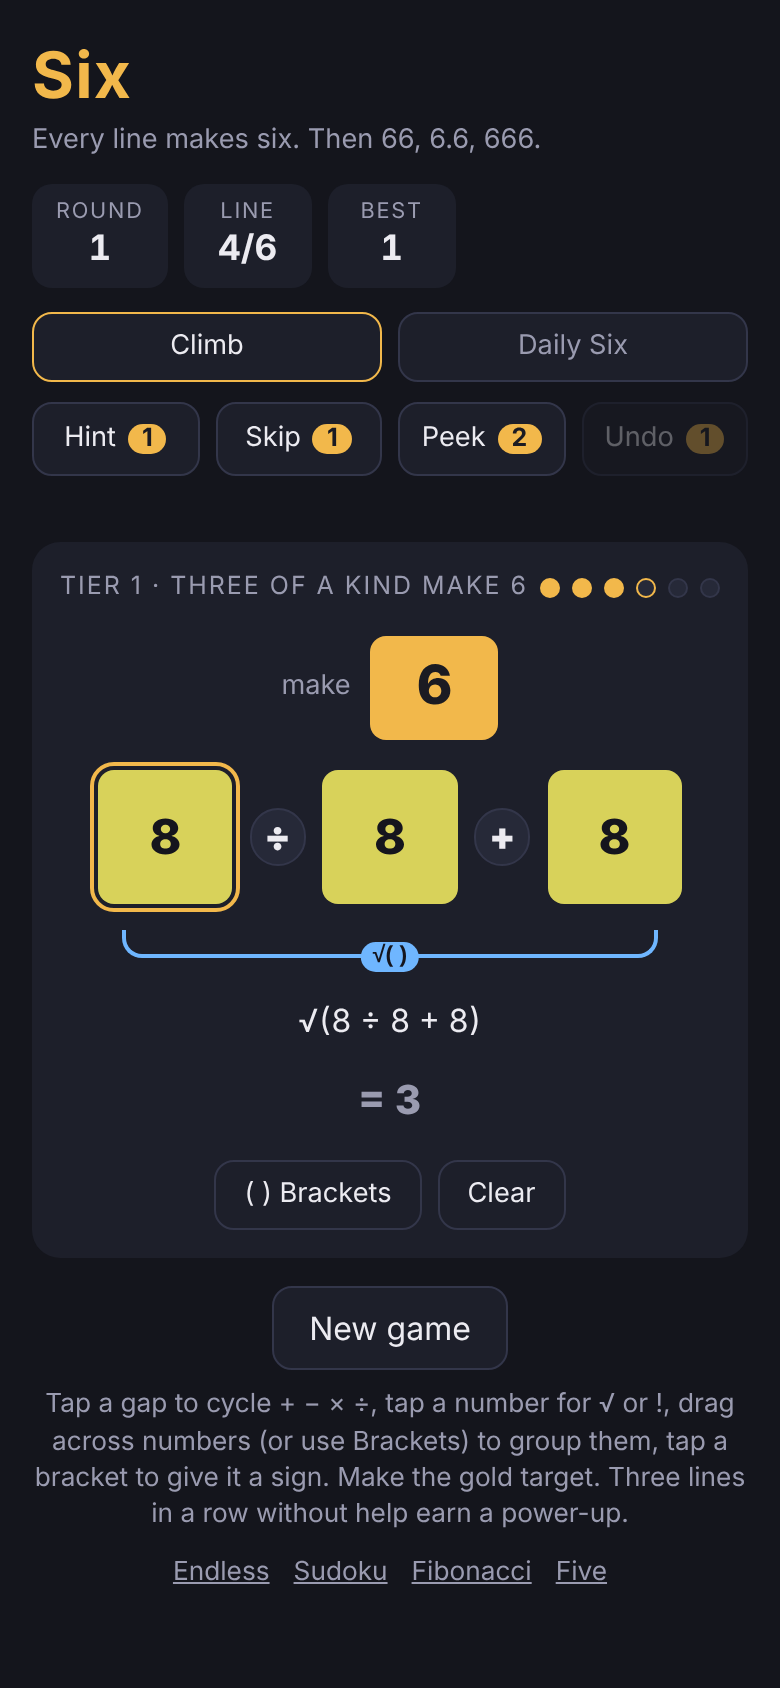
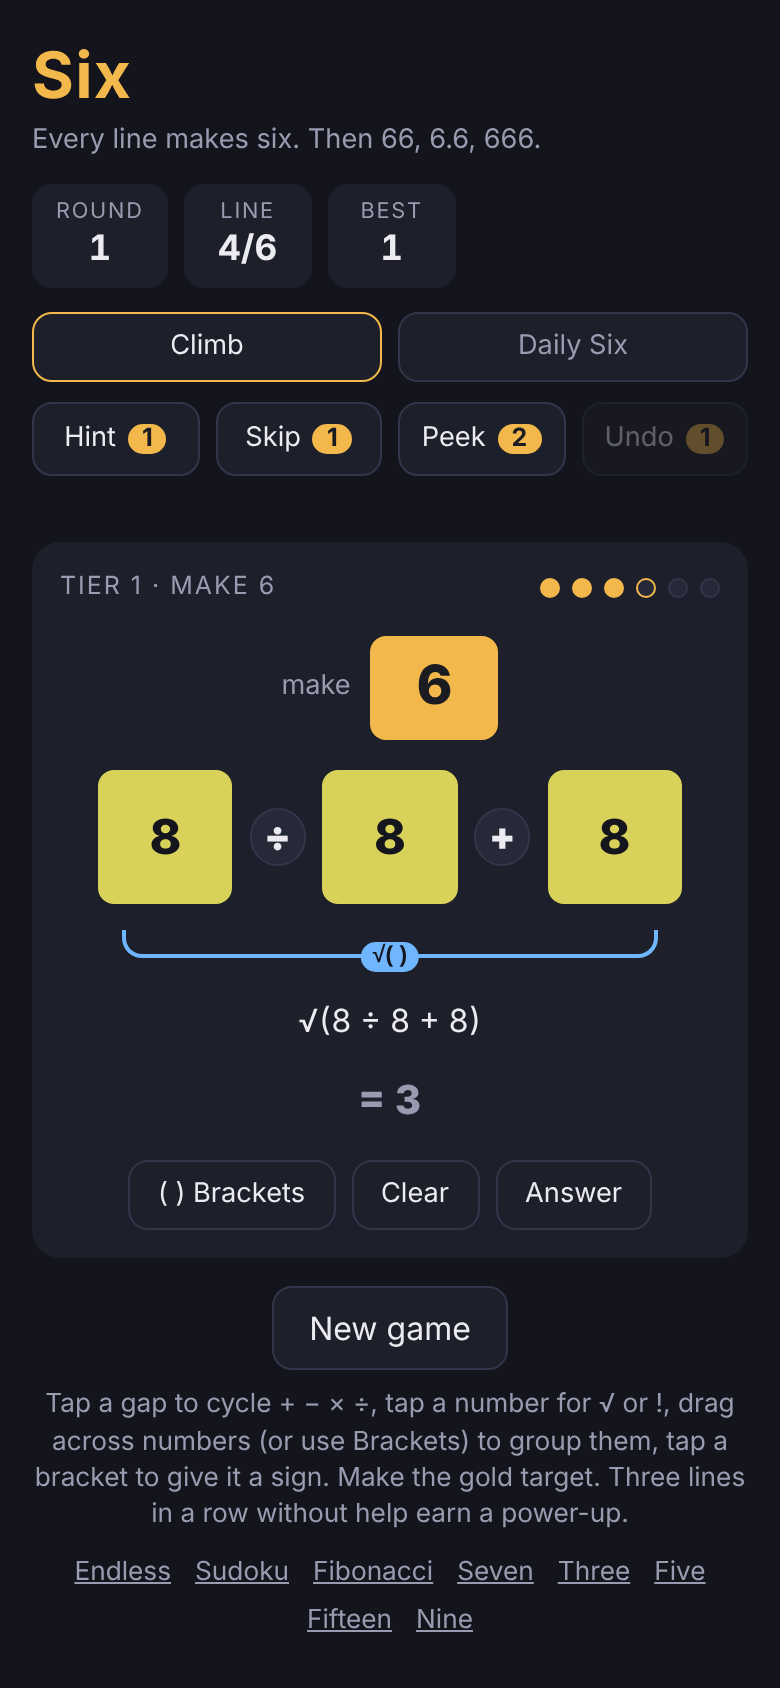
Six: make every line six, then 66, 6.6, 666, 66.6
Five tiers over a verified bank of 101 lines (exact fractions, every line
re-solved by the tests); tap gaps for signs, drag for brackets, never eval.
Climb and Daily Six; Hint, Skip, Peek, Undo; Answer for a stuck line.

diff --git a/six/style.css b/six/style.css
@@ -17,8 +17,8 @@
 .line.long .num{ font-size:1rem; }
 .num .sg{ position:absolute; top:-9px; left:50%; translate:-50% 0; background:var(--ink); color:#15151d; border-radius:99px;
   padding:0 6px; font-size:.72rem; line-height:1.35; font-weight:800; white-space:nowrap; pointer-events:none; }
-.num.cur,.gp.cur,.bar.cur{ outline:2px solid var(--accent); outline-offset:2px; }
-.num.pk{ box-shadow:0 0 0 2px var(--bg), 0 0 0 4px var(--cool); }
+.num.cur,.gp.cur{ outline:2px solid var(--accent); outline-offset:5px; }
+.num.pk{ box-shadow:0 0 0 2px var(--panel), 0 0 0 4px var(--cool); }
 .num.anchor{ outline:2px dashed var(--accent); outline-offset:3px; }
 .num.jl{ border-top-left-radius:2px; border-bottom-left-radius:2px; }
 .num.jr{ border-top-right-radius:2px; border-bottom-right-radius:2px; }
@@ -45,3 +45,4 @@
 .six .tools .btn{ padding:7px 14px; font-size:.85rem; }
 .six .tools .btn[hidden]{ display:none; }
 @media (max-width:380px){ .tile.goldt{ height:46px; font-size:1.5rem; } .six{ padding:10px; } }
+.six .over{ background:rgba(20,21,28,.94); }

diff --git a/six/engine.js b/six/engine.js
@@ -270,11 +270,11 @@
 
   // ---------- lines, tiers, difficulty ----------
   var TIERS = {
-    1: { join: false, label: "Tier 1", what: "three of a kind make 6" },
-    2: { join: false, label: "Tier 2", what: "four or five make 6" },
-    3: { join: false, label: "Tier 3", what: "two-digit numbers make 6" },
-    4: { join: true, label: "Tier 4", what: "join digits for 66 or 6.6" },
-    5: { join: true, label: "Tier 5", what: "all tools for 666 or 66.6" },
+    1: { join: false, label: "Tier 1", what: "make 6" },
+    2: { join: false, label: "Tier 2", what: "longer lines" },
+    3: { join: false, label: "Tier 3", what: "two-digit numbers" },
+    4: { join: true, label: "Tier 4", what: "join digits" },
+    5: { join: true, label: "Tier 5", what: "all tools" },
   };
   var CAT = [1, 1, 2, 5, 14, 42, 132];
   // difficulty: log10 of (expressions the line allows / expressions that hit the target) + the shortest

diff --git a/six/index.html b/six/index.html
@@ -33,7 +33,7 @@
   <section id="tray" class="tray" aria-label="Power-ups"></section>
   <p id="hint" class="hint" role="status"></p>
 
-  <div id="board" class="board six" tabindex="0" aria-label="The line. Arrow keys move, Space cycles, + - x / set an operator, ( and ) place brackets.">
+  <div id="board" class="board six" tabindex="0" aria-label="The line. Arrow keys move, Space cycles, + - x / set an operator, r and ! add a sign, ( and ) place brackets, b gives a bracket a sign.">
     <div class="top"><span id="tier"></span><span id="pips" class="pips" aria-hidden="true"></span></div>
     <div class="goal"><span class="eq">make</span><span id="target" class="tile goldt"></span></div>
     <div id="line" class="line"></div>

diff --git a/shared/nav.js b/shared/nav.js
@@ -11,6 +11,7 @@
     ["seven", "Seven", "seven/"],
     ["three", "Three", "three/"],
     ["five", "Five", "five/"],
+    ["six", "Six", "six/"],
     ["fifteen", "Fifteen", "fifteen/"],
     ["nine", "Nine", "nine/"]
   ];

diff --git a/CLAUDE.md b/CLAUDE.md
@@ -65,6 +65,12 @@ same commit as any visible change. `npm test` fails if a live game has no screen
 - A solved board locks. The timer pauses in a background tab. Notes are bitmasks; placing a digit clears it from peers.
 - The two games share conventions, not code, so each folder works on its own. Games link to each other quietly.
 
+## Generated files
+- `six/bank.js` (the verified line bank) is generated by `node six/make-bank.js` (deterministic, byte-identical
+  rebuild) and every entry is re-solved by `tests/test-six.js`. Never hand-edit it.
+- `tests/fixtures/endless-replay.json` pins Endless behaviour across the rule-set engine; re-record only for a
+  deliberate rule change: `RECORD_ENDLESS_REPLAY=1 node tests/test.js`.
+
 ## Conventions
 - **Authorship: the owner only, everywhere, always (owner rule, applies to every game and every repo).**
   Every commit's author AND committer is the owner's identity already in the history: read it with
